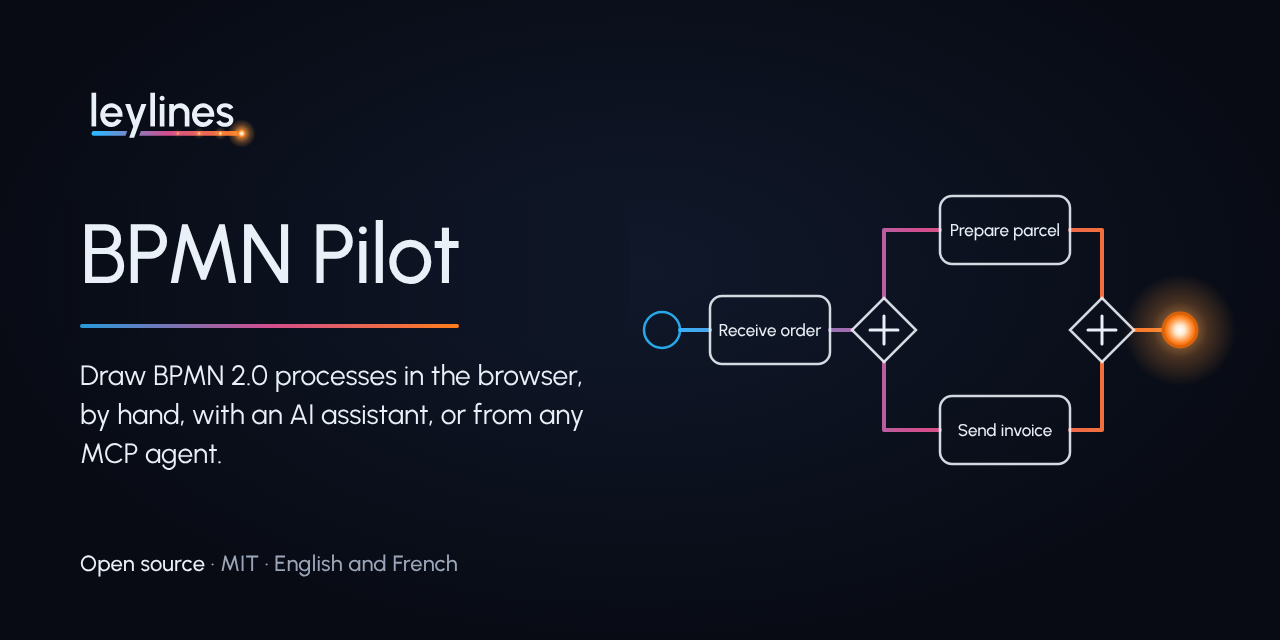
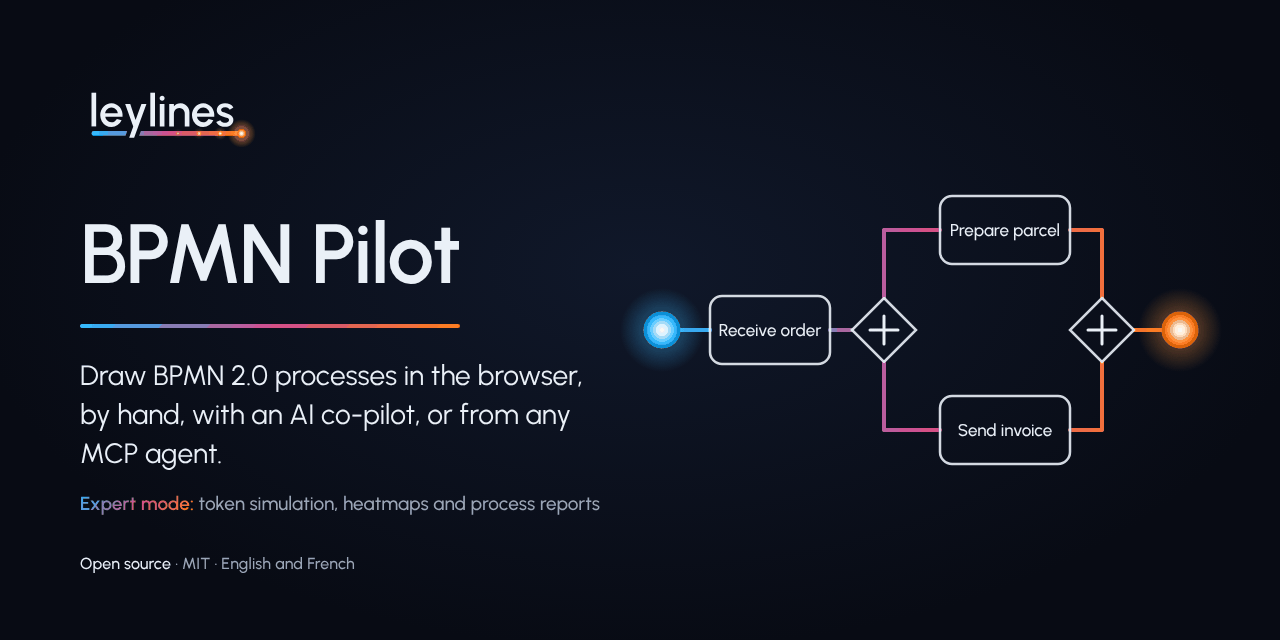
Release 1.4.2: privacy text, CNIL links, new social preview
- Privacy window: remove the legal basis sentence, show the "never
  collected" line as a plain bullet, smaller sub-bullets.
- Link "recommendations of the CNIL" to the CNIL page on audience
  measurement, in the Privacy window, the help and both READMEs.
- Social preview: "AI co-pilot", an Expert mode line, a smaller
  open source line and a blue glow on the start event.
- Version 1.4.2.

diff --git a/src/privacy.js b/src/privacy.js
@@ -78,14 +78,14 @@ export function setupPrivacy({ container, env = import.meta.env }) {
   const audience = analyticsHost ? section('chart', T('Audience measurement', "Mesure d'audience"), `
           <p>${T('The site counts its visits anonymously.', 'Le site compte ses visites de façon anonyme.')}</p>
           <ul class="pv-facts">
-            <li class="pv-key">${T('The content of your diagrams, messages and API keys is never collected.', 'Le contenu de vos diagrammes, de vos messages et de vos clés API n\'est jamais collecté.')}</li>
-            <li>${T('It follows the recommendations of the CNIL (the French data protection authority) for audience measurement exempt from consent:', "Ce comptage suit les recommandations de la CNIL pour les mesures d'audience exemptées de consentement :")}</li>
+            <li>${T('The content of your diagrams, messages and API keys is never collected.', 'Le contenu de vos diagrammes, de vos messages et de vos clés API n\'est jamais collecté.')}</li>
+            <li>${T(`It follows the <a href="https://www.cnil.fr/fr/cookies-solutions-pour-les-outils-de-mesure-daudience" target="_blank" rel="noopener">recommendations of the CNIL</a> (the French data protection authority, page in French) for audience measurement exempt from consent:`, `Ce comptage suit les <a href="https://www.cnil.fr/fr/cookies-solutions-pour-les-outils-de-mesure-daudience" target="_blank" rel="noopener">recommandations de la CNIL</a> pour les mesures d'audience exemptées de consentement :`)}</li>
             <li class="pv-sub">${T('No cookie is set and your IP address is not recorded.', "Aucun cookie n'est déposé et votre adresse IP n'est pas enregistrée.")}</li>
             <li class="pv-sub">${T('Visitors are counted with a hashed identifier, renewed every month.', 'Les visiteurs sont comptés au moyen d\'un identifiant haché, renouvelé chaque mois.')}</li>
             <li class="pv-sub">${T('Nothing is counted if your browser sends a "Do Not Track" or "Global Privacy Control" signal.', 'Rien n\'est compté si votre navigateur envoie le signal « Do Not Track » ou « Global Privacy Control ».')}</li>
           </ul>
-          <p>${T("Its purpose is to know how the site is used, so as to improve it. Legal basis: the publisher's legitimate interest.",
-                 "Elle sert à savoir comment le site est utilisé, pour l'améliorer. Base légale : l'intérêt légitime de l'éditeur.")}</p>`) : ''
+          <p>${T("Its purpose is to know how the site is used, so as to improve it.",
+                 "Le but : savoir comment le site est utilisé, pour l'améliorer.")}</p>`) : ''
 
   const legal = hostLegal ? section('scale', T('Legal notice', 'Mentions légales'), `
           <p>${T('Personal, non-commercial site, published by a private individual.',

diff --git a/aide.html b/aide.html
@@ -546,7 +546,7 @@
           <li>Vos diagrammes, vos réglages et vos clés API restent dans votre navigateur. Ils ne sont transmis ni à nous ni à l'hébergeur du site (GitHub Pages).</li>
           <li>Si vous utilisez le co-pilote IA, vos messages, le diagramme, vos fichiers joints et votre clé partent directement de votre navigateur chez le fournisseur choisi, qui applique ses propres conditions et sa politique de confidentialité. N'y mettez pas de données que vous ne confieriez pas à ce fournisseur.</li>
           <li>Comme tout hébergeur web, GitHub Pages garde des journaux techniques, dont votre adresse IP.</li>
-          <li>Le site stable compte ses visites de façon anonyme, sans cookie (rien n'est compté sur la version de développement), conformément aux recommandations de la CNIL pour l'audience exemptée de consentement. L'adresse IP n'est pas enregistrée. Elle sert uniquement à déterminer le pays, la région et la ville. Sont collectés : la page consultée et le site de provenance, les caractéristiques de l'appareil transmises par le navigateur, et quelques actions sans leur contenu (création, ouverture ou export d'un diagramme, utilisation du co-pilote, type de fournisseur connecté, temps d'utilisation par tranche, clic vers la page de soutien). Les signaux « Do Not Track » et « Global Privacy Control » désactivent la mesure.</li>
+          <li>Le site stable compte ses visites de façon anonyme, sans cookie (rien n'est compté sur la version de développement), conformément aux <a href="https://www.cnil.fr/fr/cookies-solutions-pour-les-outils-de-mesure-daudience" target="_blank" rel="noopener">recommandations de la CNIL</a> pour l'audience exemptée de consentement. L'adresse IP n'est pas enregistrée. Elle sert uniquement à déterminer le pays, la région et la ville. Sont collectés : la page consultée et le site de provenance, les caractéristiques de l'appareil transmises par le navigateur, et quelques actions sans leur contenu (création, ouverture ou export d'un diagramme, utilisation du co-pilote, type de fournisseur connecté, temps d'utilisation par tranche, clic vers la page de soutien). Les signaux « Do Not Track » et « Global Privacy Control » désactivent la mesure.</li>
           <li>Le site ne charge aucun script tiers.</li>
         </ul>
         <p>Le lien <span class="uib">Confidentialité</span>, en bas du canevas, rappelle ces points dans l'éditeur.</p>

diff --git a/help.html b/help.html
@@ -546,7 +546,7 @@
           <li>Your diagrams, settings and API keys stay in your browser. They are not sent to us, nor to the host of this site (GitHub Pages).</li>
           <li>If you use the AI co-pilot, your messages, the diagram, your attached files and your key go straight from your browser to the chosen provider, which applies its own terms and privacy policy. Do not include data you would not trust that provider with.</li>
           <li>Like any web host, GitHub Pages keeps technical logs, including your IP address.</li>
-          <li>The stable site counts its visits anonymously, without cookies (nothing is counted on the development version), according to the recommendations of the CNIL (the French data protection authority) for audience measurement exempt from consent. The IP address is not recorded. It is only used to determine the country, region and city. The data collected is: the page viewed and the referring site, the device characteristics sent by the browser, and a few actions without their content (creating, opening or exporting a diagram, using the co-pilot, type of provider connected, active time in ranges, click on the support link). "Do Not Track" and "Global Privacy Control" signals turn the measurement off.</li>
+          <li>The stable site counts its visits anonymously, without cookies (nothing is counted on the development version), according to the <a href="https://www.cnil.fr/fr/cookies-solutions-pour-les-outils-de-mesure-daudience" target="_blank" rel="noopener">recommendations of the CNIL</a> (the French data protection authority, page in French) for audience measurement exempt from consent. The IP address is not recorded. It is only used to determine the country, region and city. The data collected is: the page viewed and the referring site, the device characteristics sent by the browser, and a few actions without their content (creating, opening or exporting a diagram, using the co-pilot, type of provider connected, active time in ranges, click on the support link). "Do Not Track" and "Global Privacy Control" signals turn the measurement off.</li>
           <li>The site loads no third-party script.</li>
         </ul>
         <p>The <span class="uib">Privacy</span> link at the bottom of the canvas repeats these points in the editor.</p>

diff --git a/src/theme/leylines.css b/src/theme/leylines.css
@@ -990,18 +990,13 @@ body #chat-input { flex: 1; min-height: 72px; padding-right: 32px; overflow-y: h
 #privacy-dialog h3 { font-size: 15px; line-height: 20px; font-weight: 600; margin-bottom: 2px; }
 #privacy-dialog strong { font-weight: 600; }
 #privacy-dialog .pv-body a { color: var(--accent); }
-#privacy-dialog .pv-facts { display: flex; flex-direction: column; gap: 4px; padding: 0; list-style: none; font-size: 13px; line-height: 18px; }
+#privacy-dialog .pv-facts { display: flex; flex-direction: column; gap: 4px; padding: 0; list-style: none; font-size: 14px; line-height: 20px; }
 #privacy-dialog .pv-facts li { position: relative; padding-left: 18px; }
 #privacy-dialog .pv-facts li::before {
-  content: ""; position: absolute; left: 2px; top: 5px; width: 8px; height: 8px; border-radius: 50%;
+  content: ""; position: absolute; left: 2px; top: 6px; width: 8px; height: 8px; border-radius: 50%;
   background: var(--accent);
 }
-#privacy-dialog .pv-facts li.pv-key {
-  padding: 8px 12px 8px 34px; margin-bottom: 4px; border-radius: var(--radius-sm);
-  background: color-mix(in srgb, var(--accent) 12%, transparent); font-size: 14px; font-weight: 600; color: var(--ink);
-}
-#privacy-dialog .pv-facts li.pv-key::before { left: 14px; top: 13px; }
-#privacy-dialog .pv-facts li.pv-sub { margin-left: 18px; }
+#privacy-dialog .pv-facts li.pv-sub { margin-left: 18px; font-size: 13px; line-height: 18px; }
 #privacy-dialog .pv-facts li.pv-sub::before { width: 6px; height: 6px; top: 6px; background: transparent; border: 1.5px solid var(--accent); }
 /* Version Docker mise en avant dans « Hébergement » : pour qui veut tout héberger lui-même */
 #privacy-dialog .pv-docker {

diff --git a/README.md b/README.md
@@ -170,8 +170,8 @@ created, opened or exported, active time by range, support link clicked). No thi
 these measurements itself ([src/analytics.js](src/analytics.js)), never the content of diagrams,
 messages or API keys. "Do Not Track" and "Global Privacy Control" turn measurement off, and a
 flag in the browser storage excludes your own visits (see [src/analytics.js](src/analytics.js)). Neither the
-Docker image nor `npm run dev` measure anything. The measurement is configured according to the recommendations of the
-CNIL (the French data protection authority) for audience measurement exempt from consent.
+Docker image nor `npm run dev` measure anything. The measurement is configured according to the
+[recommendations of the CNIL](https://www.cnil.fr/fr/cookies-solutions-pour-les-outils-de-mesure-daudience) (the French data protection authority, page in French) for audience measurement exempt from consent.
 
 ## Run it with Docker
 

diff --git a/README.fr.md b/README.fr.md
@@ -179,7 +179,7 @@ créé, ouvert ou exporté, temps actif par tranche, clic sur le lien de soutien
 elle-même ces événements ([src/analytics.js](src/analytics.js)), jamais le contenu des diagrammes, des
 messages ni les clés API. « Do Not Track » et « Global Privacy Control » coupent ce comptage, et un
 indicateur dans le stockage du navigateur exclut vos propres visites. Ni l'image Docker ni `npm run dev`
-n'envoient quoi que ce soit. Le réglage suit les recommandations de la CNIL pour les mesures d'audience
+n'envoient quoi que ce soit. Le réglage suit les [recommandations de la CNIL](https://www.cnil.fr/fr/cookies-solutions-pour-les-outils-de-mesure-daudience) pour les mesures d'audience
 exemptées de consentement.
 
 ## Le lancer avec Docker
